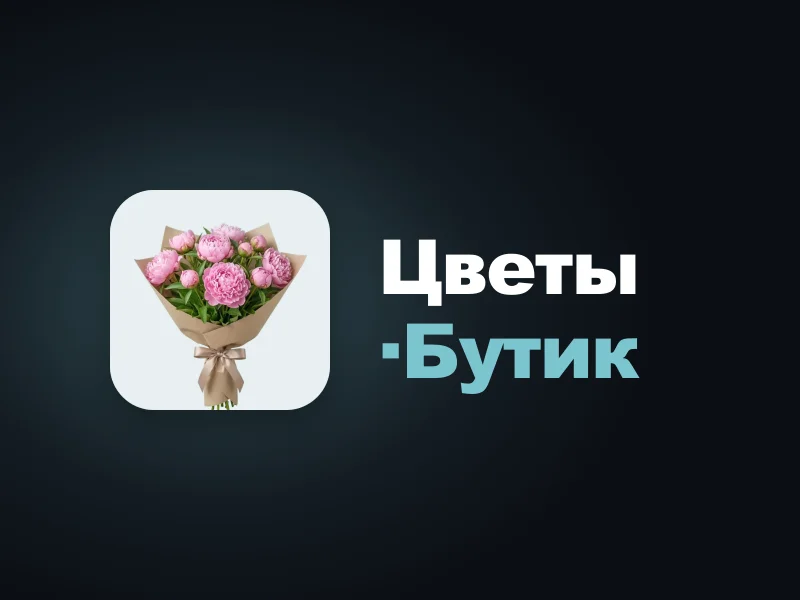
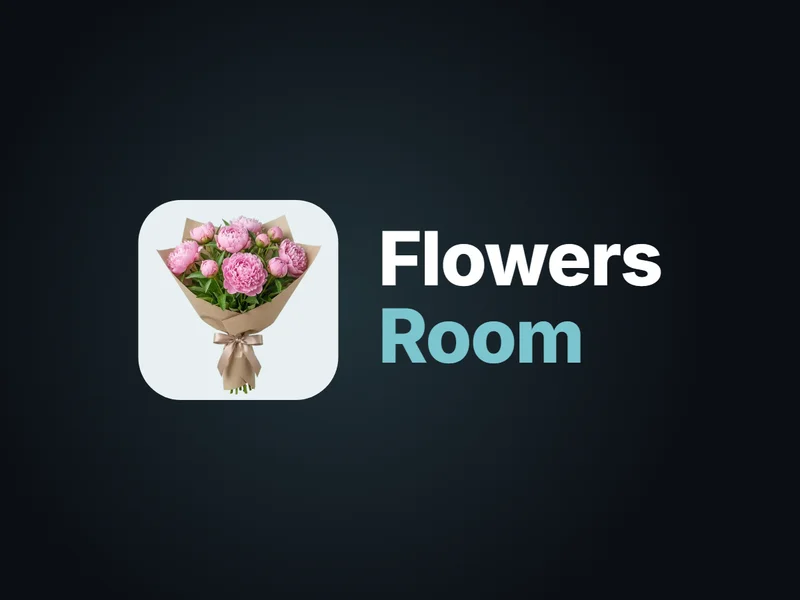
привёл названия кейсов к брендам с обложек и перерисовал обложку Flowers Room. придал движения табличке согласия

Changed region(s): [[0.0312, 0.3, 0.4375, 0.69], [0.4688, 0.36, 0.8438, 0.66]]

diff --git a/index.html b/index.html
@@ -305,22 +305,22 @@
                 <article class="case-card reveal">
                     <button type="button" class="sandbox-preview dark-preview" data-case="keyboard" data-glow="132,204,22">
                         <img src="./previews/preview-keyboard.webp" alt="" class="w-full h-full object-cover absolute inset-0" loading="lazy" width="800" height="600">
-                        <span class="sr-only"><span data-i18n="projects.more">Подробнее:</span> Keyboard Showcase</span>
+                        <span class="sr-only"><span data-i18n="projects.more">Подробнее:</span> VOID65</span>
                     </button>
                     <div class="mt-2.5 md:mt-6 px-0.5 md:px-1">
                         <p data-i18n="keyboard.kind" class="text-[10px] md:text-sm font-semibold uppercase tracking-wider text-slate-500">3D-презентация</p>
-                        <h3 class="mt-0.5 md:mt-1 text-base md:text-3xl font-black text-slate-900 tracking-tight"><button type="button" class="case-title" data-case="keyboard">Keyboard Showcase</button></h3>
+                        <h3 class="mt-0.5 md:mt-1 text-base md:text-3xl font-black text-slate-900 tracking-tight"><button type="button" class="case-title" data-case="keyboard">VOID65</button></h3>
                         <p data-i18n="keyboard.short" class="mt-1 md:mt-2 text-xs md:text-base text-slate-600 leading-snug md:leading-relaxed">Клавиатура, которую прокрутка разбирает на слои и собирает обратно.</p>
                     </div>
                 </article>
                 <article class="case-card reveal">
                     <button type="button" class="sandbox-preview" data-case="tin" data-glow="255,90,0">
                         <img src="./previews/preview-tin.webp" alt="" class="w-full h-full object-cover absolute inset-0" loading="lazy" width="800" height="600">
-                        <span class="sr-only"><span data-i18n="projects.more">Подробнее:</span> Tin Master 3D</span>
+                        <span class="sr-only"><span data-i18n="projects.more">Подробнее:</span> ЖестьМастер</span>
                     </button>
                     <div class="mt-2.5 md:mt-6 px-0.5 md:px-1">
                         <p data-i18n="tin.kind" class="text-[10px] md:text-sm font-semibold uppercase tracking-wider text-slate-500">3D-конфигуратор</p>
-                        <h3 class="mt-0.5 md:mt-1 text-base md:text-3xl font-black text-slate-900 tracking-tight"><button type="button" class="case-title" data-case="tin">Tin Master 3D</button></h3>
+                        <h3 class="mt-0.5 md:mt-1 text-base md:text-3xl font-black text-slate-900 tracking-tight"><button type="button" class="case-title" data-case="tin">ЖестьМастер</button></h3>
                         <p data-i18n="tin.short" class="mt-1 md:mt-2 text-xs md:text-base text-slate-600 leading-snug md:leading-relaxed">Цех металлообработки: изделие крутится в 3D и красится по палитре RAL.</p>
                     </div>
                 </article>
@@ -380,7 +380,7 @@
                     </li>
                     <li>
                         <button type="button" class="archive-row" data-case="pizza">
-                            <span class="archive-name">Pizza Landing</span>
+                            <span class="archive-name">FORNO</span>
                             <span data-i18n="pizza.short" class="archive-short">Пиццерия: меню с фильтрами, выезжающая корзина и тач-свайпы.</span>
                             <span data-i18n="pizza.kind" class="archive-kind">Лендинг</span>
                             <span class="archive-arrow" aria-hidden="true">→</span>
@@ -396,7 +396,7 @@
                     </li>
                     <li>
                         <button type="button" class="archive-row" data-case="creator">
-                            <span class="archive-name">Creator Portfolio</span>
+                            <span class="archive-name">Creator</span>
                             <span data-i18n="creator.short" class="archive-short">Портфолио с тёмной и светлой темой.</span>
                             <span data-i18n="creator.kind" class="archive-kind">Лендинг</span>
                             <span class="archive-arrow" aria-hidden="true">→</span>
@@ -455,7 +455,7 @@
                     <div class="p-5 md:p-10 space-y-4 md:space-y-6">
                         <div>
                             <p data-i18n="keyboard.kind" class="text-xs md:text-sm font-semibold uppercase tracking-wider text-slate-500">3D-презентация</p>
-                            <h3 id="case-keyboard-title" class="mt-1 text-2xl md:text-4xl font-black text-slate-900 tracking-tight">Keyboard Showcase</h3>
+                            <h3 id="case-keyboard-title" class="mt-1 text-2xl md:text-4xl font-black text-slate-900 tracking-tight">VOID65</h3>
                         </div>
                         <div class="flex flex-wrap gap-2">
                             <span class="stack-badge px-3 py-1 rounded-full bg-white/60 border border-slate-900/5 text-xs font-medium text-slate-600" data-brand="34,211,238">Three.js · R3F</span>
@@ -494,7 +494,7 @@
                     <div class="p-5 md:p-10 space-y-4 md:space-y-6">
                         <div>
                             <p data-i18n="tin.kind" class="text-xs md:text-sm font-semibold uppercase tracking-wider text-slate-500">3D-конфигуратор</p>
-                            <h3 id="case-tin-title" class="mt-1 text-2xl md:text-4xl font-black text-slate-900 tracking-tight">Tin Master 3D</h3>
+                            <h3 id="case-tin-title" class="mt-1 text-2xl md:text-4xl font-black text-slate-900 tracking-tight">ЖестьМастер</h3>
                         </div>
                         <div class="flex flex-wrap gap-2">
                             <span class="stack-badge px-3 py-1 rounded-full bg-white/60 border border-slate-900/5 text-xs font-medium text-slate-600" data-brand="34,211,238">Three.js · WebGL</span>
@@ -723,7 +723,7 @@
                     <div class="p-5 md:p-10 space-y-4 md:space-y-6">
                         <div>
                             <p data-i18n="pizza.kind" class="text-xs md:text-sm font-semibold uppercase tracking-wider text-slate-500">Лендинг</p>
-                            <h3 id="case-pizza-title" class="mt-1 text-2xl md:text-4xl font-black text-slate-900 tracking-tight">Pizza Landing</h3>
+                            <h3 id="case-pizza-title" class="mt-1 text-2xl md:text-4xl font-black text-slate-900 tracking-tight">FORNO</h3>
                         </div>
                         <div class="flex flex-wrap gap-2">
                             <span class="stack-badge px-3 py-1 rounded-full bg-white/60 border border-slate-900/5 text-xs font-medium text-slate-600" data-brand="228,77,38">HTML / CSS</span>
@@ -798,7 +798,7 @@
                     <div class="p-5 md:p-10 space-y-4 md:space-y-6">
                         <div>
                             <p data-i18n="creator.kind" class="text-xs md:text-sm font-semibold uppercase tracking-wider text-slate-500">Лендинг</p>
-                            <h3 id="case-creator-title" class="mt-1 text-2xl md:text-4xl font-black text-slate-900 tracking-tight">Creator Portfolio</h3>
+                            <h3 id="case-creator-title" class="mt-1 text-2xl md:text-4xl font-black text-slate-900 tracking-tight">Creator</h3>
                         </div>
                         <div class="flex flex-wrap gap-2">
                             <span class="stack-badge px-3 py-1 rounded-full bg-white/60 border border-slate-900/5 text-xs font-medium text-slate-600" data-brand="228,77,38">HTML5</span>
@@ -866,7 +866,7 @@
                 <div class="pricing-card bg-white/40 backdrop-blur-md border border-white/60 rounded-2xl md:rounded-[2rem] p-6 md:p-8 shadow-xl shadow-cyan-900/5 transition-all duration-700 hover:duration-500 active:duration-500">
                     <h3 data-i18n="pricing.landing.title" class="text-lg md:text-xl font-bold text-slate-900 mb-2">Лендинг</h3>
                     <p data-i18n="pricing.landing.price" class="text-2xl md:text-3xl font-black text-transparent bg-clip-text bg-gradient-to-r from-cyan-400 to-teal-400 mb-4">от 25 000 ₽</p>
-                    <p data-i18n="pricing.landing.desc" class="text-sm md:text-base text-slate-500 leading-relaxed">Одностраничный сайт на 5–7 блоков: адаптив, форма заявки и публикация на хостинге. С интерактивом и анимациями, как Pizza Landing, стоит 40–80 тыс. ₽.</p>
+                    <p data-i18n="pricing.landing.desc" class="text-sm md:text-base text-slate-500 leading-relaxed">Одностраничный сайт на 5–7 блоков: адаптив, форма заявки и публикация на хостинге. С интерактивом и анимациями, как FORNO, стоит 40–80 тыс. ₽.</p>
                 </div>
 
                 <div class="pricing-card bg-white/40 backdrop-blur-md border border-white/60 rounded-2xl md:rounded-[2rem] p-6 md:p-8 shadow-xl shadow-cyan-900/5 transition-all duration-700 hover:duration-500 active:duration-500">
@@ -878,7 +878,7 @@
                 <div class="pricing-card md:col-span-2 lg:col-span-3 bg-white/40 backdrop-blur-md border border-white/60 rounded-2xl md:rounded-[2rem] p-6 md:p-8 shadow-xl shadow-cyan-900/5 transition-all duration-700 hover:duration-500 active:duration-500">
                     <h3 data-i18n="pricing.td.title" class="text-lg md:text-xl font-bold text-slate-900 mb-2">3D и WebGL</h3>
                     <p data-i18n="pricing.td.price" class="text-2xl md:text-3xl font-black text-transparent bg-clip-text bg-gradient-to-r from-cyan-400 to-teal-400 mb-4">от 80 000 ₽</p>
-                    <p data-i18n="pricing.td.desc" class="text-sm md:text-base text-slate-500 leading-relaxed">Сайты с 3D в реальном времени: конфигуратор товара, сцена на прокрутке, предмет, который можно покрутить пальцем. Конфигуратор вроде Tin Master 3D стоит 80–150 тыс. ₽, промо уровня Meridian Noir — 250–400 тыс. ₽.</p>
+                    <p data-i18n="pricing.td.desc" class="text-sm md:text-base text-slate-500 leading-relaxed">Сайты с 3D в реальном времени: конфигуратор товара, сцена на прокрутке, предмет, который можно покрутить пальцем. Конфигуратор вроде ЖестьМастера стоит 80–150 тыс. ₽, промо уровня Meridian Noir — 250–400 тыс. ₽.</p>
                 </div>
             </div>
 

diff --git a/src/i18n.js b/src/i18n.js
@@ -138,7 +138,7 @@ const DICT = {
         'pricing.bot.desc': 'Меню, заявки и уведомления вам в чат. Если нужны база данных, запись клиентов, оплата или админка, бот обойдётся в 30–80 тыс. ₽.',
         'pricing.landing.title': 'Лендинг',
         'pricing.landing.price': 'от 25 000 ₽',
-        'pricing.landing.desc': 'Одностраничный сайт на 5–7 блоков: адаптив, форма заявки и публикация на хостинге. С интерактивом и анимациями, как Pizza Landing, стоит 40–80 тыс. ₽.',
+        'pricing.landing.desc': 'Одностраничный сайт на 5–7 блоков: адаптив, форма заявки и публикация на хостинге. С интерактивом и анимациями, как FORNO, стоит 40–80 тыс. ₽.',
         'pricing.tma.title': 'Telegram Mini App',
         'pricing.tma.price': 'от 30 000 ₽',
         'pricing.tma.desc': 'Простое приложение на 1–2 экрана: витрина, форма записи или калькулятор с отправкой заявки в чат. Магазин с корзиной и оплатой, как Flowers Room, стоит 60–100 тыс. ₽.',
@@ -147,7 +147,7 @@ const DICT = {
         'pricing.win.desc': 'Готовый .exe под вашу задачу: обработка файлов, отчёты, автоматизация рутины. Лёгкая, без Electron. Утилита уровня SmartySorter стоит 10–25 тыс. ₽.',
         'pricing.td.title': '3D и WebGL',
         'pricing.td.price': 'от 80 000 ₽',
-        'pricing.td.desc': 'Сайты с 3D в реальном времени: конфигуратор товара, сцена на прокрутке, предмет, который можно покрутить пальцем. Конфигуратор вроде Tin Master 3D стоит 80–150 тыс. ₽, промо уровня Meridian Noir — 250–400 тыс. ₽.',
+        'pricing.td.desc': 'Сайты с 3D в реальном времени: конфигуратор товара, сцена на прокрутке, предмет, который можно покрутить пальцем. Конфигуратор вроде ЖестьМастера стоит 80–150 тыс. ₽, промо уровня Meridian Noir — 250–400 тыс. ₽.',
         'pricing.note': 'Точную цену назову после того, как вы опишете задачу. Работаю как самозанятый: чек и закрывающие документы не проблема. Можно через безопасную сделку на Kwork, тогда деньги уходят мне только после вашей приёмки.',
 
         'contact.h2': 'Расскажите о проекте',
@@ -380,7 +380,7 @@ const DICT = {
         'pricing.bot.desc': 'Menus, lead capture and notifications to your chat. With a database, client bookings, payments or an admin panel, a bot runs $900–2,400.',
         'pricing.landing.title': 'Landing page',
         'pricing.landing.price': 'from $750',
-        'pricing.landing.desc': 'A one-page site with 5–7 sections: responsive layout, a lead form and hosting set up. With interaction and animation, like Pizza Landing, it runs $1,200–2,400.',
+        'pricing.landing.desc': 'A one-page site with 5–7 sections: responsive layout, a lead form and hosting set up. With interaction and animation, like FORNO, it runs $1,200–2,400.',
         'pricing.tma.title': 'Telegram Mini App',
         'pricing.tma.price': 'from $900',
         'pricing.tma.desc': 'A simple app with 1–2 screens: a showcase, a booking form or a calculator that sends the request to your chat. A shop with a cart and payments, like Flowers Room, runs $1,800–3,000.',
@@ -389,7 +389,7 @@ const DICT = {
         'pricing.win.desc': 'A ready .exe built around your task: file processing, reports, routine automation. Lightweight, no Electron. A utility like SmartySorter runs $300–750.',
         'pricing.td.title': '3D & WebGL',
         'pricing.td.price': 'from $2,400',
-        'pricing.td.desc': 'Sites with real-time 3D: a product configurator, a scroll-driven scene, an object you can spin with a finger. A configurator like Tin Master 3D runs $2,400–4,500; a promo on the level of Meridian Noir, $7,500–12,000.',
+        'pricing.td.desc': 'Sites with real-time 3D: a product configurator, a scroll-driven scene, an object you can spin with a finger. A configurator like ЖестьМастер runs $2,400–4,500; a promo on the level of Meridian Noir, $7,500–12,000.',
         'pricing.note': "I'll give you an exact quote once you describe the task. Invoices are not a problem.",
 
         'contact.h2': 'Tell me about your project',

diff --git a/src/consent.js b/src/consent.js
@@ -70,15 +70,22 @@ function buildBanner() {
     document.body.appendChild(banner);
 }
 
+// пауза при первом заходе: баннер, который выскочил вместе со страницей, читается
+// как помеха. появившись чуть позже и движением, он замечается, но не перебивает
+const FIRST_DELAY = 1400;
+
 function showBanner() {
     if (!banner) buildBanner();
-    banner.hidden = false;
+    // чтение размера фиксирует начальное состояние только что вставленного баннера,
+    // иначе переход не сыграет. rAF тут не годится - в фоновой вкладке он не приходит
+    void banner.offsetWidth;
+    banner.classList.add('is-shown');
 }
 
 function decide(value) {
     const before = read();
     write(value);
-    banner.hidden = true;
+    banner.classList.remove('is-shown');
     if (value === 'granted') loadMetrika();
     else if (before === 'granted') { forgetMetrika(); location.reload(); }
 }
@@ -86,7 +93,7 @@ function decide(value) {
 export function initConsent() {
     const saved = read();
     if (saved === 'granted') loadMetrika();
-    else if (saved !== 'denied') showBanner();
+    else if (saved !== 'denied') setTimeout(showBanner, FIRST_DELAY);
 
     // кнопка "настройки куки" в подвале: решение можно поменять в любой момент
     document.querySelectorAll('[data-cookie-settings]').forEach((btn) => {

diff --git a/src/style.css b/src/style.css
@@ -460,3 +460,39 @@
         grid-template-columns: 8rem 1fr auto 1.5rem;
     }
 }
+
+/* баннер куки выезжает снизу с лёгким перелётом. visibility, а не hidden:
+   у display:none нет промежуточных кадров, и выход бы просто обрывался */
+.cookie-banner {
+    opacity: 0;
+    visibility: hidden;
+    pointer-events: none;
+    transform: translateY(32px) scale(0.94);
+    filter: blur(6px);
+    transition:
+        opacity 0.5s ease,
+        transform 0.5s ease,
+        filter 0.5s ease,
+        visibility 0s linear 0.5s;
+}
+
+.cookie-banner.is-shown {
+    opacity: 1;
+    visibility: visible;
+    pointer-events: auto;
+    transform: none;
+    filter: none;
+    transition:
+        opacity 0.7s ease,
+        transform 1s cubic-bezier(0.34, 1.45, 0.5, 1),
+        filter 0.7s ease,
+        visibility 0s;
+}
+
+@media (prefers-reduced-motion: reduce) {
+    .cookie-banner,
+    .cookie-banner.is-shown {
+        transform: none;
+        filter: none;
+    }
+}
